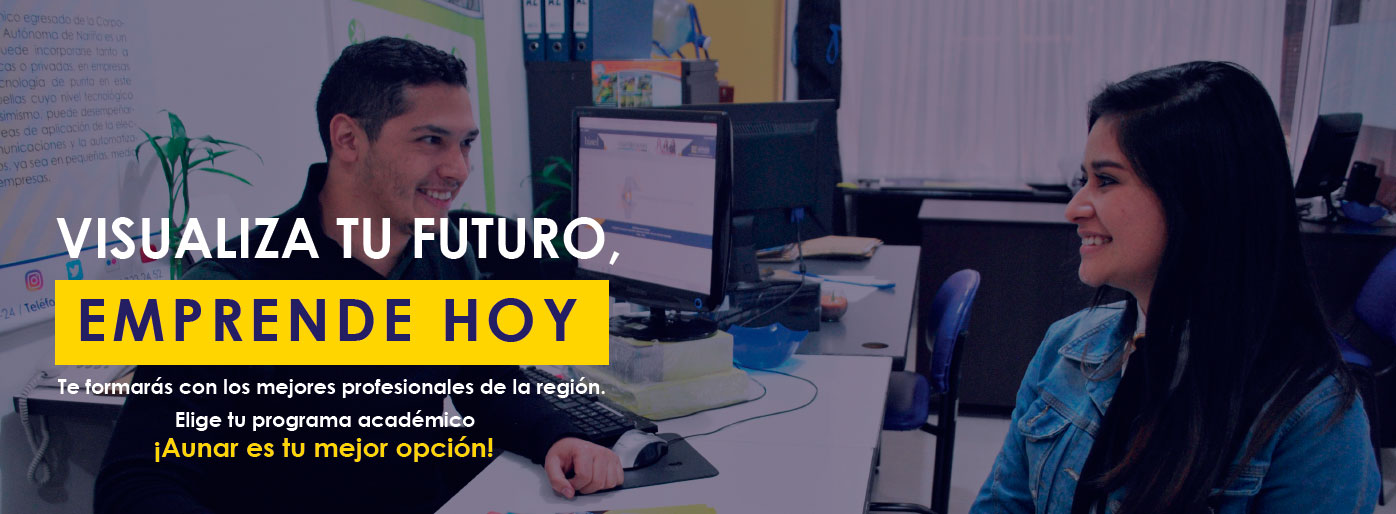
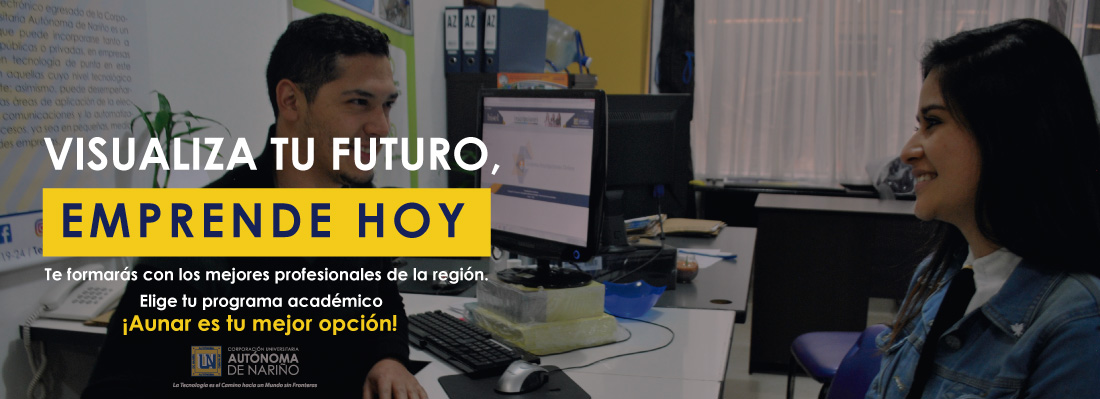
agregando imagenes

diff --git a/css/personalizado.css b/css/personalizado.css
@@ -603,3 +603,10 @@ font-weight: bold;
 #myBtn:hover {
   background-color: #F4D460;
 }
+
+/*quitar color azul del menu dropdown item active*/
+.dropdown-item.active, .dropdown-item:active {
+    /*color: #F10000;*/
+    text-decoration: none;
+    background-color: #FFFFFF;
+}

diff --git a/slider/slider-1.php b/slider/slider-1.php
@@ -10,31 +10,31 @@
   <div class="carousel-inner">
     <div class="carousel-item active">
       <a href="inscripciones.php"> <img data-toggle="tooltip" data-placement="auto" title="Ver más sobre la oferta académica" class="d-block w-100" src="img/slider1.jpg" alt="First slide"></a>
-      <div class="carousel-caption">
+      <!--div class="carousel-caption">
         <h3></h3>
         <p></p>
-      </div>
+      </div-->
     </div>
     <div class="carousel-item">
       <img class="d-block w-100" src="img/slider2.jpg" alt="Second slide">
-      <div class="carousel-caption">
+      <!--div class="carousel-caption">
         <h3>Lorem Fuga, nesciunt </h3>
         <p>voluptatibus consectetur, consequuntur nemo necessitatibus.</p>
-      </div>
+      </div-->
     </div>
     <div class="carousel-item">
       <img class="d-block w-100" src="img/slider3.jpg" alt="Second slide">
-      <div class="carousel-caption">
+      <!--div class="carousel-caption">
         <h3>Lorem ipsum.</h3>
         <p>Lorem ipsum dolor sit amet, consectetur adipisicing.</p>
-      </div>
+      </div-->
     </div>
     <div class="carousel-item">
       <img class="d-block w-100" src="img/slider2.jpg" alt="Third slide">
-      <div class="carousel-caption">
+      <!--div class="carousel-caption">
         <h3>Lorem.</h3>
         <p>Lorem ipsum dolor sit.</p>
-      </div>
+      </div-->
     </div>
   </div>
   <a class="carousel-control-prev" href="#carouselExampleIndicators" role="button" data-slide="prev">

diff --git a/noticias/noticia-1.php b/noticias/noticia-1.php
@@ -35,7 +35,7 @@
         <!-- imagen -->
         
             <div class="col-12">
-              <img class="img-fluid " src="img/noticias/noticia1.jpg" alt="Noticias Aunar" width="100%">
+              <img class="img-fluid " src="img/noticias/noticias-autonoma-de-narino-estudiantes.jpg" alt="Noticias Autónoma de Nariño" width="100%">
             </div>
         
       </div>
@@ -51,7 +51,7 @@
         <!-- imagen -->
         
             <div class="col-12">
-              <img class="img-fluid " src="img/noticias/noticia2.jpg" alt="Noticias Aunar" width="100%">
+              <img class="img-fluid " src="img/noticias/noticias-autonoma-de-narino.-docentes.jpg" alt="Noticias Aunar" width="100%">
             </div>
         
       </div>
